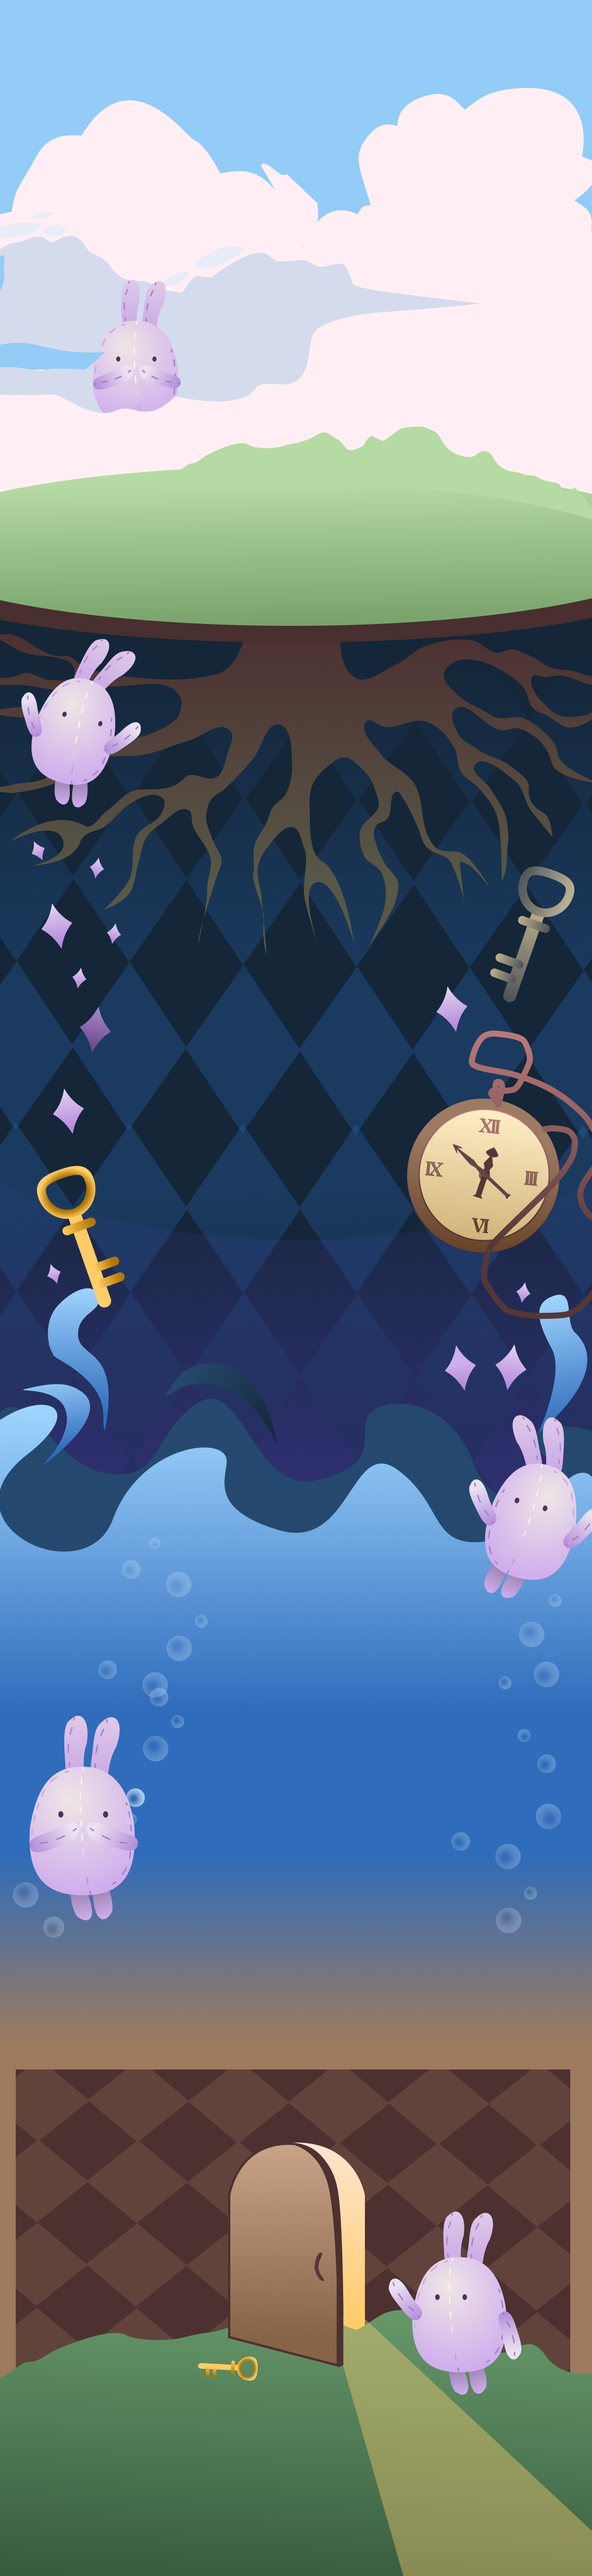
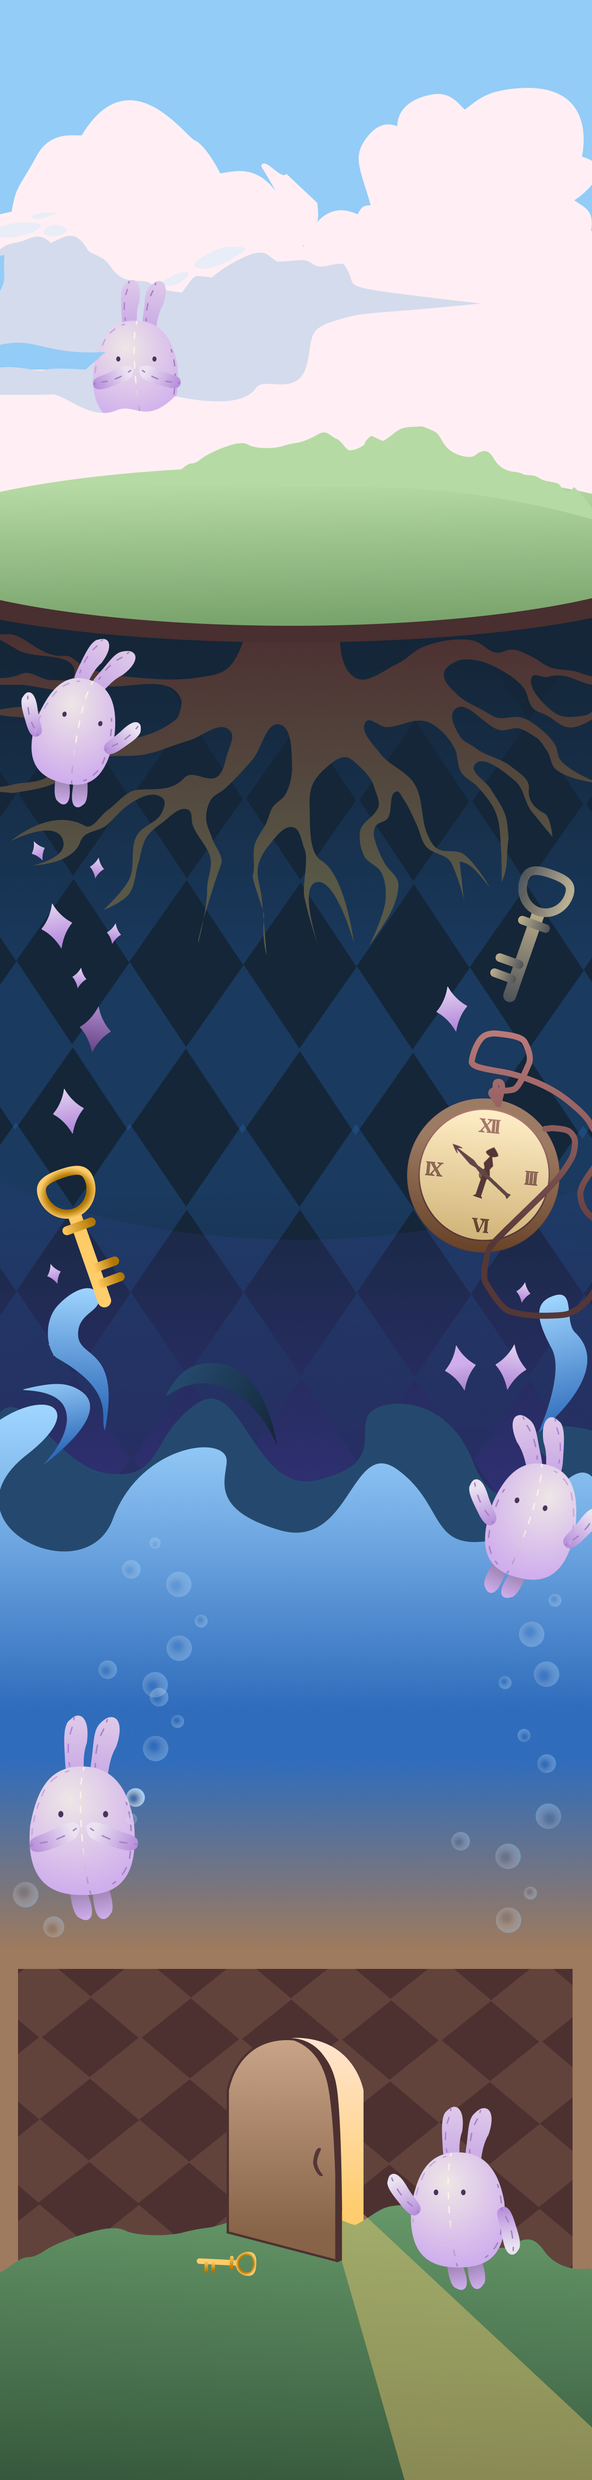
be able to add feelings/emotions and background fix

diff --git a/client/src/components/Stage1.jsx b/client/src/components/Stage1.jsx
@@ -50,36 +50,70 @@ const QUESTIONS = [
   },
 ];
 
-const PillGroup = ({ options, selected, onSelect, multi = false }) => (
-  <div className="flex flex-wrap gap-2 mt-4">
-    {options.map((opt) => {
-      const isSelected = multi
-        ? Array.isArray(selected) && selected.includes(opt)
-        : selected === opt;
-      return (
-        <button
-          key={opt}
-          onClick={() => onSelect(opt)}
-          className={`px-4 py-2 rounded-full text-base transition-all duration-200 font-figtree ${isSelected
-            ? "border-2 border-primary text-primary bg-[#F4EDE8]"
-            : "bg-[#F4EDE8]/60 text-black/70 hover:text-black lg:hover:bg-black/5"
-            }`}>
-          {opt}
-        </button>
-      );
-    })}
-  </div>
-);
+const PillGroup = ({ options, selected, onSelect, multi = false, allowCustom = false, customSelected = [], onCustomAdd, onCustomRemove }) => {
+  const [customInput, setCustomInput] = useState("");
+
+  const handleCustomKeyDown = (e) => {
+    if (e.key === "Enter") {
+      e.preventDefault();
+      const trimmed = customInput.trim();
+      if (trimmed && onCustomAdd) {
+        onCustomAdd(trimmed);
+        setCustomInput("");
+      }
+    }
+  };
+
+  const allOptions = [...options, ...customSelected];
+
+  return (
+    <div>
+      <div className="flex flex-wrap gap-2 mt-4">
+        {allOptions.map((opt) => {
+          const isCustom = customSelected.includes(opt);
+          const isSelected = multi
+            ? (Array.isArray(selected) && selected.includes(opt)) || isCustom
+            : selected === opt;
+          return (
+            <button
+              key={opt}
+              onClick={() => isCustom ? onCustomRemove && onCustomRemove(opt) : onSelect(opt)}
+              className={`px-4 py-2 rounded-full text-base transition-all duration-200 font-figtree flex items-center gap-1.5 ${isSelected
+                ? "border-2 border-primary text-primary bg-[#F4EDE8]"
+                : "bg-[#F4EDE8]/60 text-black/70 hover:text-black lg:hover:bg-black/5"
+                }`}>
+              {opt}
+              {isCustom && <span className="text-xs opacity-50">✕</span>}
+            </button>
+          );
+        })}
+      </div>
+
+      {allowCustom && (
+        <input
+          type="text"
+          value={customInput}
+          onChange={(e) => setCustomInput(e.target.value)}
+          onKeyDown={handleCustomKeyDown}
+          placeholder="Add your own..."
+          className="mt-3 w-full px-4 py-2.5 rounded-xl bg-[#F4EDE8]/60 text-black/80 placeholder-black/30 border border-black/10 focus:outline-none focus:border-primary text-base font-figtree"
+        />
+      )}
+    </div>
+  );
+};
 
 const Stage1 = ({ stageData, onComplete, onBack }) => {
   const { initialInput } = stageData;
   const [activeQuestions, setActiveQuestions] = useState(null); // null = loading
   const [currentQ, setCurrentQ] = useState(0);
   const [answers, setAnswers] = useState({});
+  const [customFeelings, setCustomFeelings] = useState([]);
 
   const [summaryConfirmed, setSummaryConfirmed] = useState(false);
   const [adjusting, setAdjusting] = useState(false);
   const [draftAnswers, setDraftAnswers] = useState({});
+  const [draftCustomFeelings, setDraftCustomFeelings] = useState([]);
 
   // Fetch AI acknowledgement and analyze what's already known
   useEffect(() => {
@@ -152,16 +186,31 @@ const Stage1 = ({ stageData, onComplete, onBack }) => {
 
   const openAdjust = () => {
     setDraftAnswers({ ...answers });
+    setDraftCustomFeelings([...customFeelings]);
     setAdjusting(true);
   };
 
   const saveAdjust = () => {
     setAnswers({ ...draftAnswers });
+    setCustomFeelings([...draftCustomFeelings]);
     setAdjusting(false);
   };
 
   const allDone =
     activeQuestions !== null && currentQ >= activeQuestions.length;
+
+  // Merge preset + custom feelings into the feeling field for onComplete
+  const buildFinalAnswers = () => {
+    const presetFeelings = Array.isArray(answers.feeling) ? answers.feeling : [];
+    const allFeelings = [...presetFeelings, ...customFeelings];
+    return { ...answers, feeling: allFeelings };
+  };
+
+  const isFeelingQuestion = currentQuestion?.id === "feeling";
+  const totalSelected = [
+    ...(Array.isArray(answers.feeling) ? answers.feeling : []),
+    ...customFeelings,
+  ];
 
   return (
     <motion.div
@@ -201,19 +250,29 @@ const Stage1 = ({ stageData, onComplete, onBack }) => {
                 selected={answers[currentQuestion.id]}
                 onSelect={handlePillSelect}
                 multi={currentQuestion.multi}
+                allowCustom={isFeelingQuestion}
+                customSelected={isFeelingQuestion ? customFeelings : []}
+                onCustomAdd={(v) => {
+                  if (!customFeelings.includes(v)) {
+                    setCustomFeelings((prev) => [...prev, v]);
+                  }
+                }}
+                onCustomRemove={(v) =>
+                  setCustomFeelings((prev) => prev.filter((f) => f !== v))
+                }
               />
             )}
 
             <div className="flex items-center gap-4 mt-6">
-              {currentQuestion.multi &&
-                Array.isArray(answers[currentQuestion.id]) &&
-                answers[currentQuestion.id].length > 0 && (
-                  <button
-                    onClick={() => setCurrentQ((q) => q + 1)}
-                    className="px-5 py-2.5 bg-primary text-black/80 rounded-full text-base font-semibold hover:bg-primary-hover transition-colors font-figtree">
-                    Continue →
-                  </button>
-                )}
+              {currentQuestion.multi && (
+                isFeelingQuestion ? totalSelected.length > 0 : (Array.isArray(answers[currentQuestion.id]) && answers[currentQuestion.id].length > 0)
+              ) && (
+                <button
+                  onClick={() => setCurrentQ((q) => q + 1)}
+                  className="px-5 py-2.5 bg-primary text-black/80 rounded-full text-base font-semibold hover:bg-primary-hover transition-colors font-figtree">
+                  Continue →
+                </button>
+              )}
               <button
                 onClick={handleBack}
                 className="text-black/80 text-base hover:text-black/60 transition-colors font-figtree">
@@ -271,6 +330,16 @@ const Stage1 = ({ stageData, onComplete, onBack }) => {
                   options={FEELINGS}
                   selected={draftAnswers.feeling}
                   multi={true}
+                  allowCustom={true}
+                  customSelected={draftCustomFeelings}
+                  onCustomAdd={(v) => {
+                    if (!draftCustomFeelings.includes(v)) {
+                      setDraftCustomFeelings((prev) => [...prev, v]);
+                    }
+                  }}
+                  onCustomRemove={(v) =>
+                    setDraftCustomFeelings((prev) => prev.filter((f) => f !== v))
+                  }
                   onSelect={(v) => {
                     const current = Array.isArray(draftAnswers.feeling)
                       ? draftAnswers.feeling
@@ -336,11 +405,10 @@ const Stage1 = ({ stageData, onComplete, onBack }) => {
               <SummaryRow label="Area of life" value={answers.lifeArea} />
               <SummaryRow
                 label="How you're feeling"
-                value={
-                  Array.isArray(answers.feeling)
-                    ? answers.feeling.join(" · ")
-                    : answers.feeling
-                }
+                value={[
+                  ...(Array.isArray(answers.feeling) ? answers.feeling : answers.feeling ? [answers.feeling] : []),
+                  ...customFeelings,
+                ].join(" · ") || undefined}
               />
               <SummaryRow label="Your position" value={answers.timeline} />
               <SummaryRow label="Importance" value={answers.importance} />
@@ -363,7 +431,7 @@ const Stage1 = ({ stageData, onComplete, onBack }) => {
               <motion.button
                 initial={{ opacity: 0, scale: 0.95 }}
                 animate={{ opacity: 1, scale: 1 }}
-                onClick={() => onComplete(answers)}
+                onClick={() => onComplete(buildFinalAnswers())}
                 className="w-full py-3 bg-primary text-black/80 rounded-2xl text-lg font-semibold hover:bg-primary-hover transition-colors font-figtree">
                 Dig into the 1st Pillar →
               </motion.button>

diff --git a/client/src/components/Stage3.jsx b/client/src/components/Stage3.jsx
@@ -123,6 +123,8 @@ const Stage3 = ({ stageData, onComplete, onBack }) => {
   const [flippedCard, setFlippedCard] = useState(null);
   const [selectedTone, setSelectedTone] = useState(null);
   const [selectedEmotions, setSelectedEmotions] = useState([]);
+  const [customEmotions, setCustomEmotions] = useState([]);
+  const [emotionInput, setEmotionInput] = useState("");
 
   useEffect(() => {
     const fetchPerspectives = async () => {
@@ -161,8 +163,21 @@ const Stage3 = ({ stageData, onComplete, onBack }) => {
     );
   };
 
+  const allEmotions = [...selectedEmotions, ...customEmotions];
+
+  const handleEmotionInputKeyDown = (e) => {
+    if (e.key === "Enter") {
+      e.preventDefault();
+      const trimmed = emotionInput.trim();
+      if (trimmed && !customEmotions.includes(trimmed) && !selectedEmotions.includes(trimmed)) {
+        setCustomEmotions((prev) => [...prev, trimmed]);
+        setEmotionInput("");
+      }
+    }
+  };
+
   const canContinue =
-    selectedPerspective !== null && selectedTone && selectedEmotions.length > 0;
+    selectedPerspective !== null && selectedTone && allEmotions.length > 0;
 
   return (
     <motion.div
@@ -253,19 +268,35 @@ const Stage3 = ({ stageData, onComplete, onBack }) => {
           <span className="text-white/30">(pick a few)</span>
         </p>
         <div className="flex flex-wrap gap-2">
-          {EMOTIONS.map((emotion) => (
-            <button
-              key={emotion}
-              onClick={() => toggleEmotion(emotion)}
-              className={`px-3 py-1.5 rounded-full text-base transition-all duration-300 font-figtree ${
-                selectedEmotions.includes(emotion)
-                  ? "bg-primary text-white shadow-md"
-                  : "bg-white/5 text-white/60 hover:bg-white/10 hover:text-white/80"
-              }`}>
-              {emotion}
-            </button>
-          ))}
+          {[...EMOTIONS, ...customEmotions].map((emotion) => {
+            const isCustom = customEmotions.includes(emotion);
+            const isSelected = selectedEmotions.includes(emotion) || isCustom;
+            return (
+              <button
+                key={emotion}
+                onClick={() => isCustom
+                  ? setCustomEmotions((prev) => prev.filter((x) => x !== emotion))
+                  : toggleEmotion(emotion)
+                }
+                className={`px-3 py-1.5 rounded-full text-base transition-all duration-300 font-figtree flex items-center gap-1.5 ${
+                  isSelected
+                    ? "bg-primary text-white shadow-md"
+                    : "bg-white/5 text-white/60 hover:bg-white/10 hover:text-white/80"
+                }`}>
+                {emotion}
+                {isCustom && <span className="text-xs opacity-60">✕</span>}
+              </button>
+            );
+          })}
         </div>
+        <input
+          type="text"
+          value={emotionInput}
+          onChange={(e) => setEmotionInput(e.target.value)}
+          onKeyDown={handleEmotionInputKeyDown}
+          placeholder="Add your own..."
+          className="mt-3 w-full px-4 py-2.5 rounded-xl bg-white/5 text-white/80 placeholder-white/20 border border-white/10 focus:outline-none focus:border-primary text-base font-figtree"
+        />
       </div>
 
       <AnimatePresence>
@@ -276,7 +307,7 @@ const Stage3 = ({ stageData, onComplete, onBack }) => {
             onClick={() =>
               onComplete({
                 tone: selectedTone,
-                emotions: selectedEmotions,
+                emotions: allEmotions,
                 perspective: perspectives[selectedPerspective].front,
               })
             }

diff --git a/client/src/App.jsx b/client/src/App.jsx
@@ -145,7 +145,7 @@ const downloadPDF = ({ situation, preparation, empathy, phrasing }) => {
 
 const TOTAL_STAGES = 6;
 // How far into the image to travel per stage (0–1). 0.75 = 75% of image height used total.
-const BG_TRAVEL = 0.85;
+const BG_TRAVEL = 0.9;
 
 function App() {
   const [stage, setStage] = useState(0);
@@ -188,7 +188,7 @@ function App() {
 
       {/* Progress sidebar */}
       <div className="fixed right-6 top-1/2 -translate-y-1/2 flex flex-col gap-5 z-50 items-center">
-        {[1, 2, 3, 4, 5].map((s) => (
+        {[1, 2, 3, 4, 5, 6].map((s) => (
           <div key={s} className="relative flex items-center justify-center">
             {stage === s || (stage === 0 && s === 1) ? (
               <img
